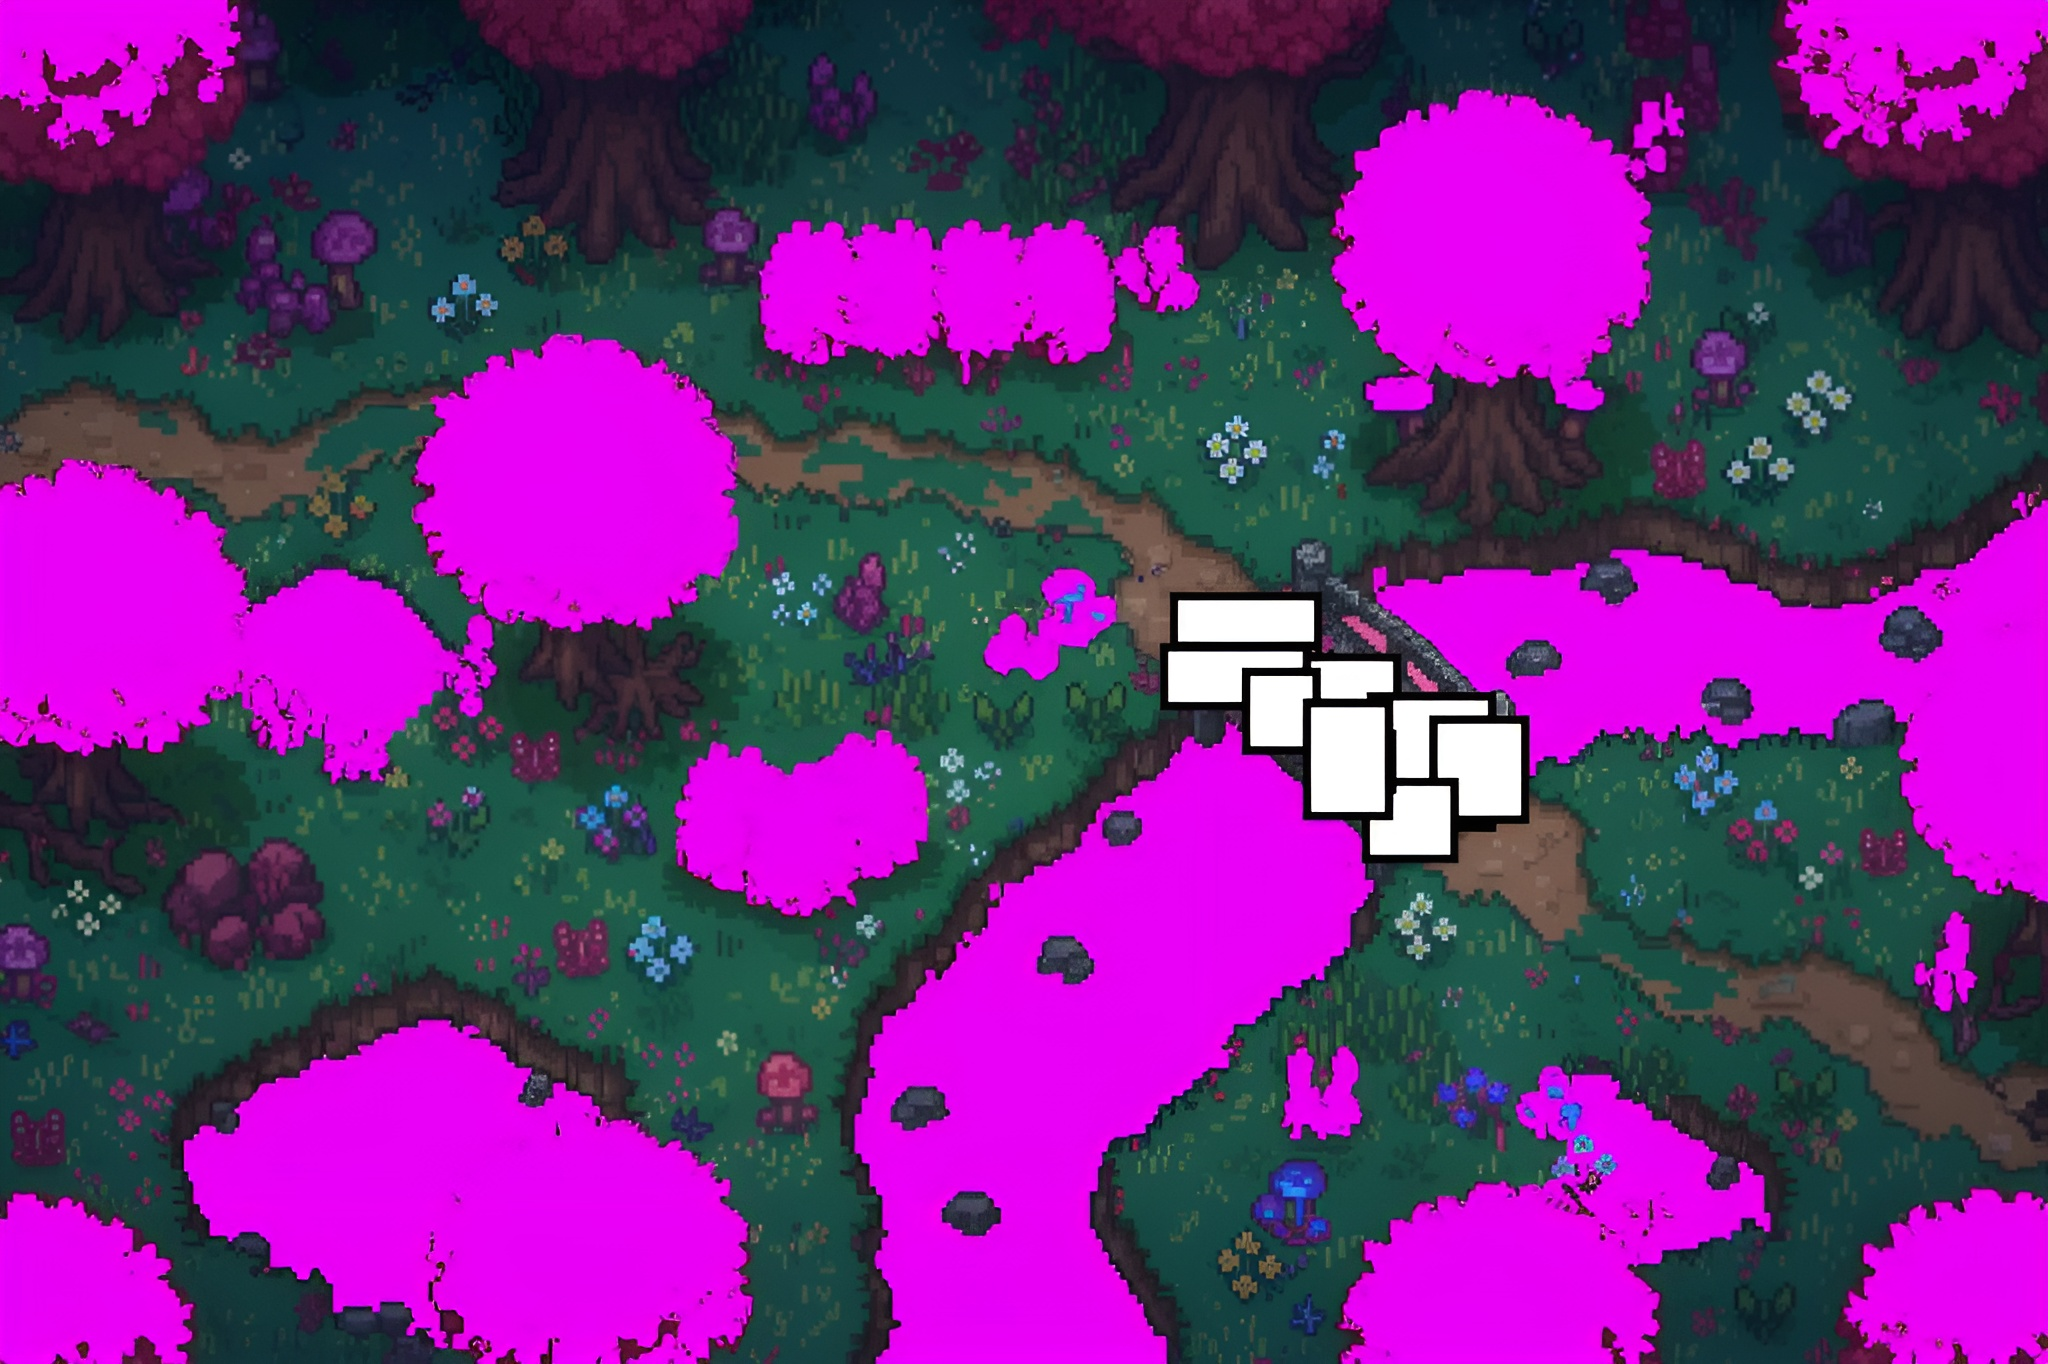
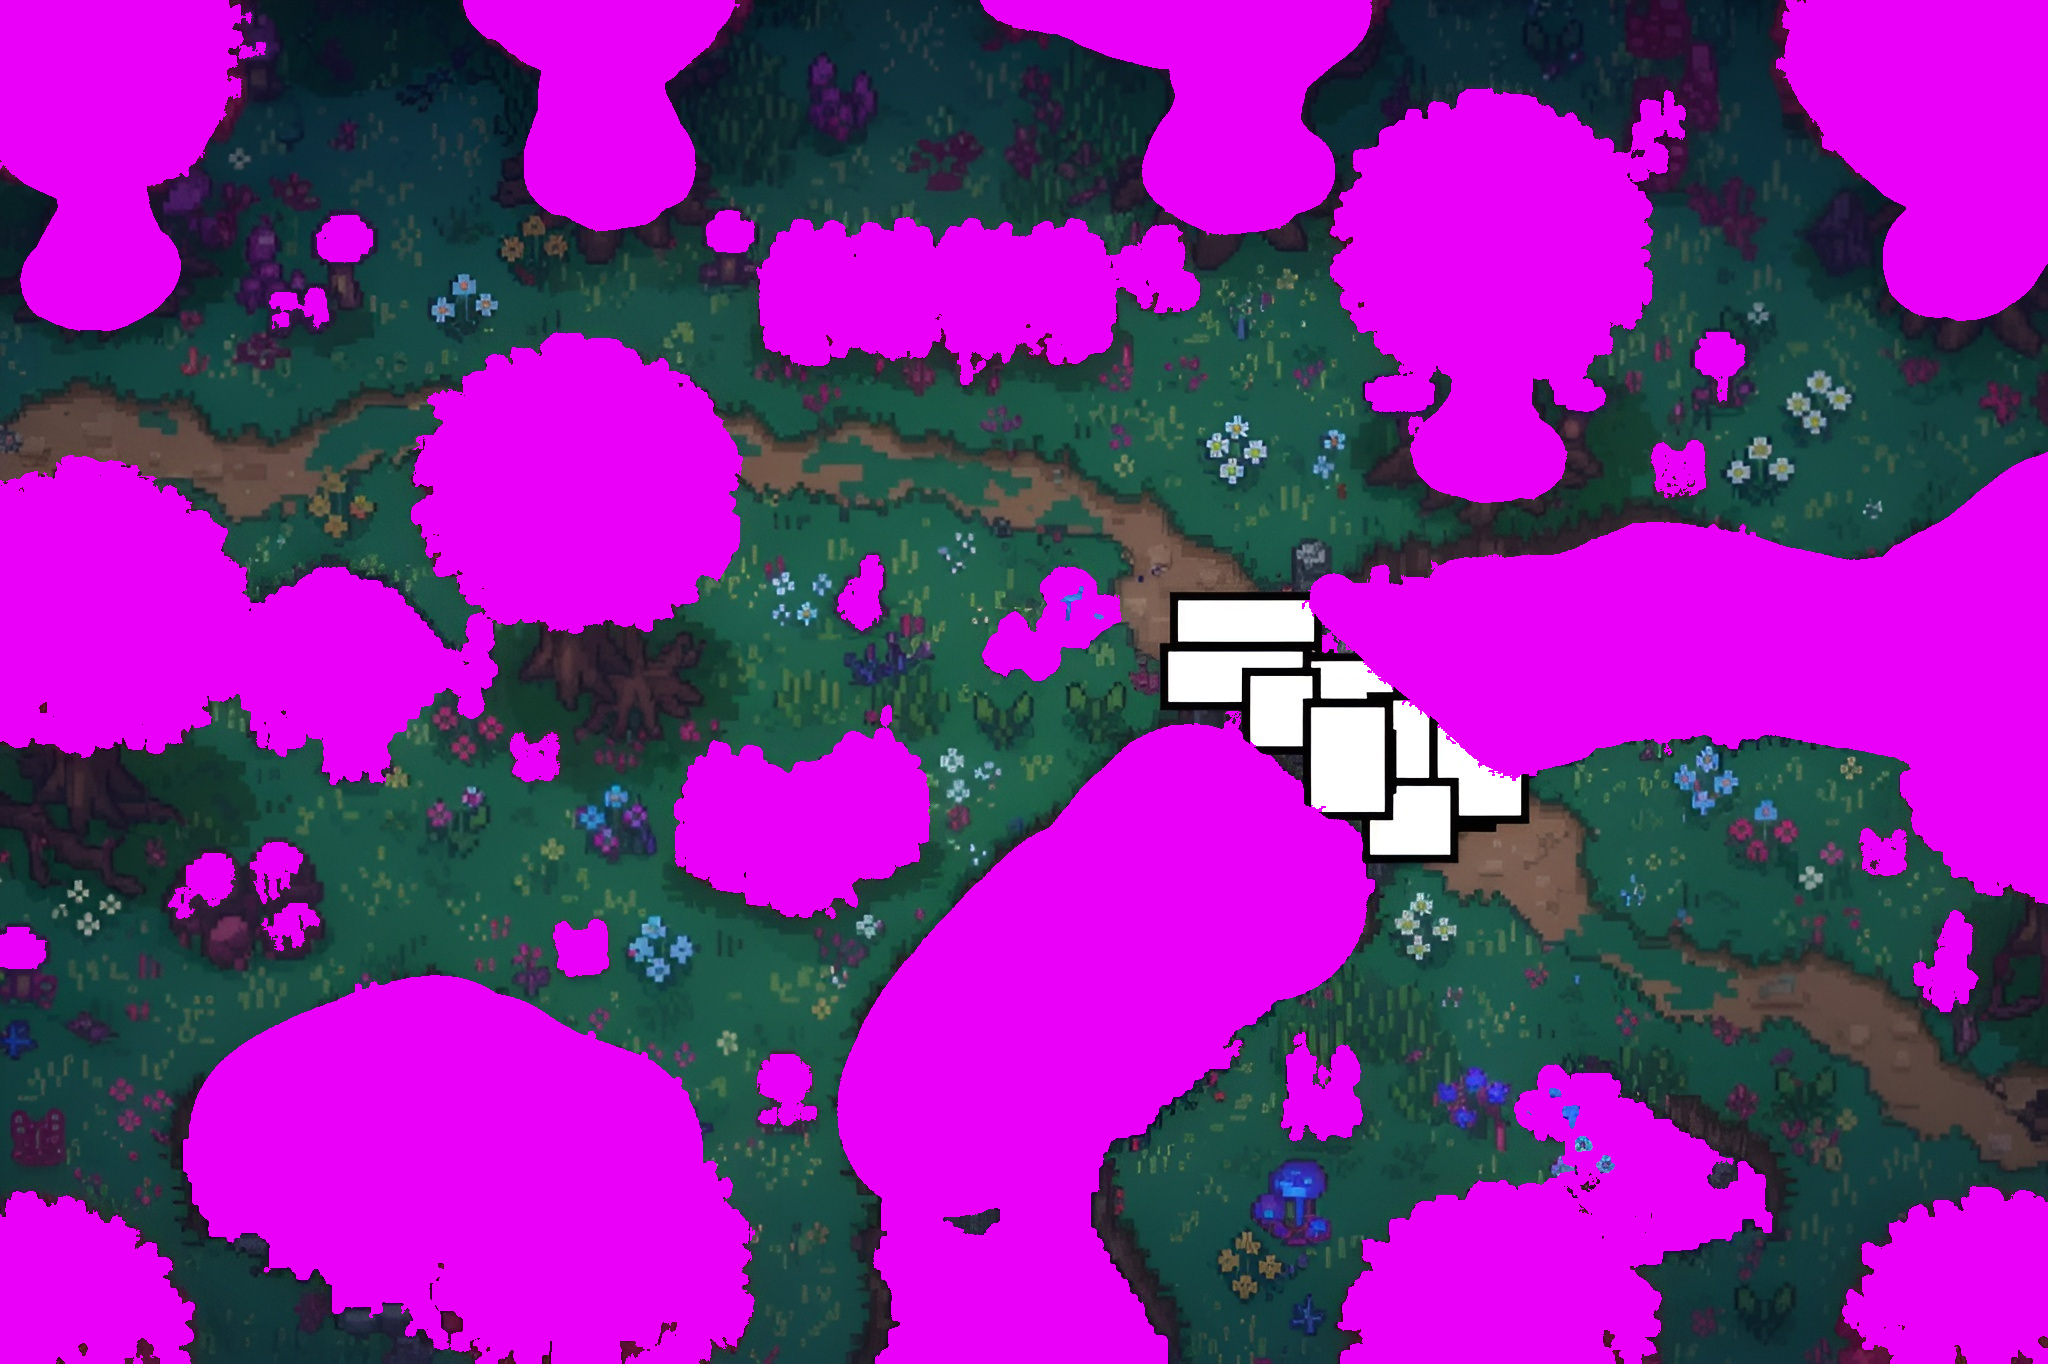
backgrounds

diff --git a/game/game.py b/game/game.py
@@ -13,12 +13,12 @@ PLAYER_SPEED = 250
 NPC_SIZE = (36, 48)
 PLAYER_SIZE = (36, 48)
 WORLD_BOUNDS = pygame.Rect(0, 0, 2048, 1364)  # Smaller world
-INTERACT_DISTANCE = 48
+INTERACT_DISTANCE = 64
 MINIMAP_SIZE = 150
 MINIMAP_POS = (WINDOW_WIDTH - MINIMAP_SIZE - 10, 10)
-BACKGROUND = pygame.image.load("assets/background2.png")
-BACKGROUND_COLOR_KEY = pygame.image.load("assets/background_color_key2.png")
-WALKABLE_COLOR = (234, 0, 255)
+BACKGROUND = pygame.image.load("assets/background_space.png")
+BACKGROUND_COLOR_KEY = pygame.image.load("assets/background_space_key.png")
+WALKABLE_COLOR = (234, 0, 249)
 CURRENT_DIALOGUE = ""
 DIALOGUE_TIMER = 0.0
 DIALOGUE_QUEUE = []
@@ -62,7 +62,7 @@ def is_position_walkable(pos: Tuple[int, int], color_key_surface, walkable_color
     if 0 <= x < color_key_surface.get_width() and 0 <= y < color_key_surface.get_height():
         pixel_color = color_key_surface.get_at((x, y))
         # Compare RGB values (ignore alpha)
-        return pixel_color[:3] != walkable_color
+        return pixel_color[:3] == walkable_color
     return False
 
 def load_storyline(filename="storyline.json") -> Dict[str, Any]:
